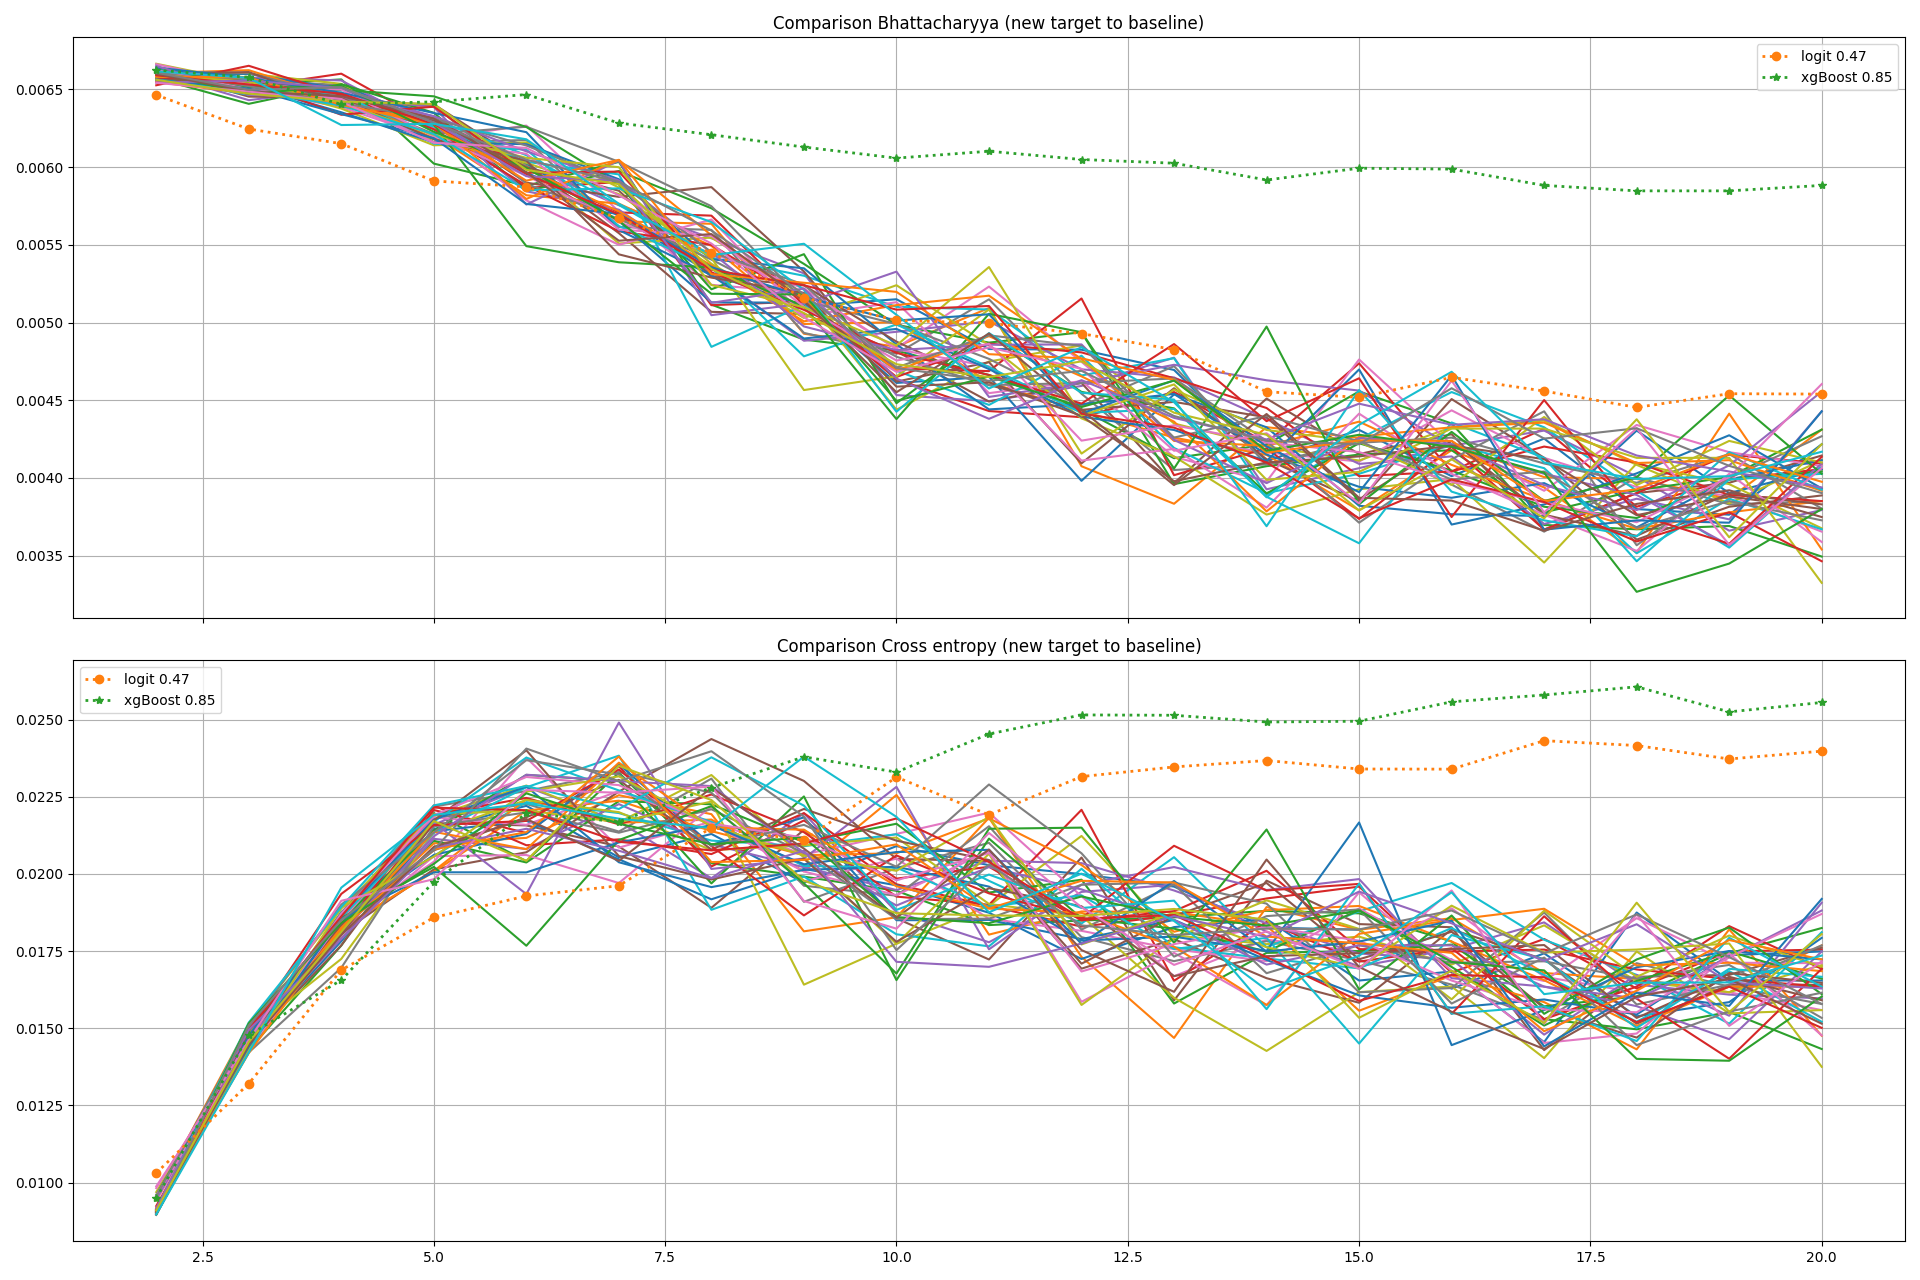
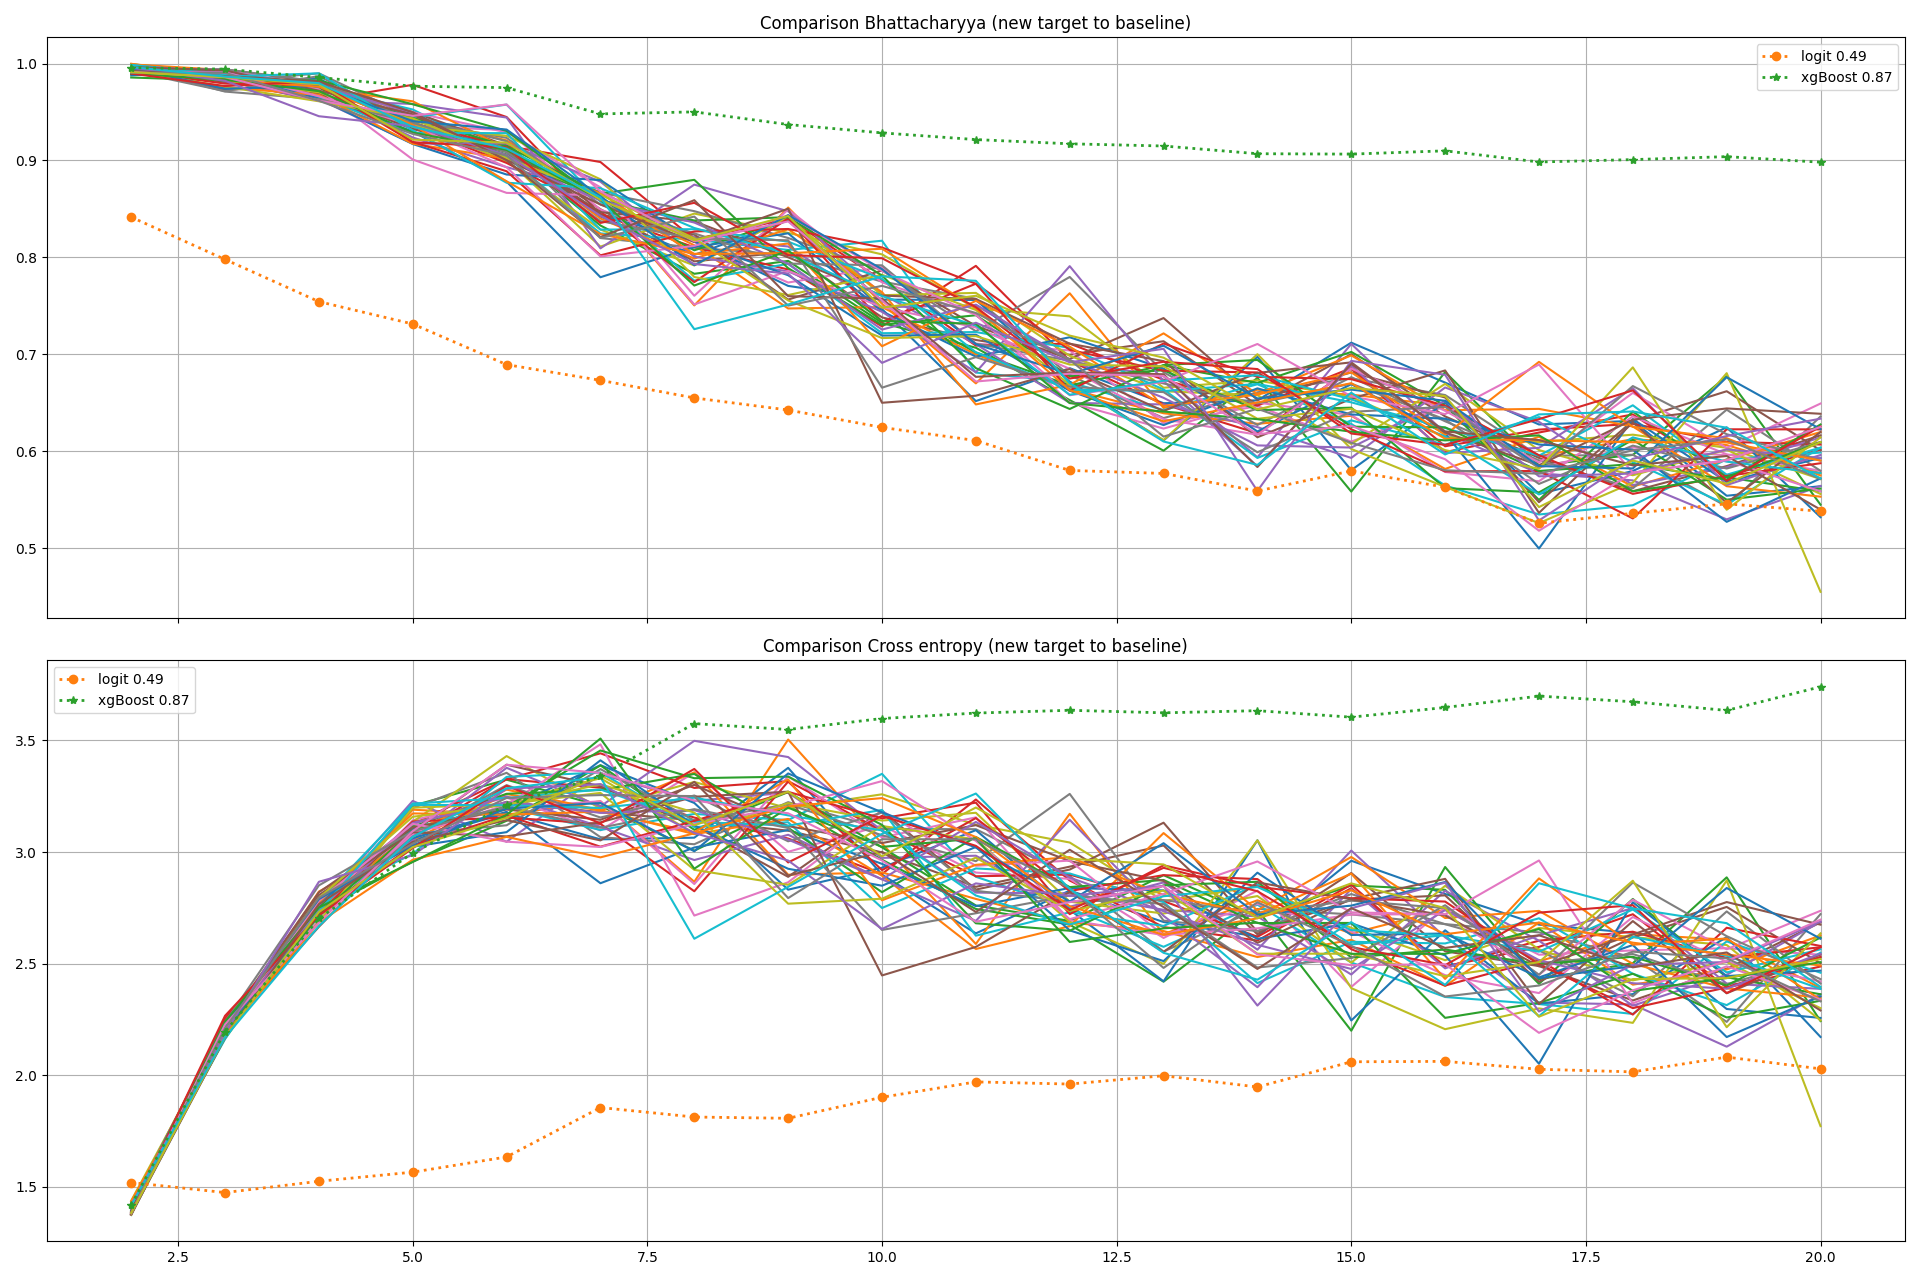
added entropy calculation

diff --git a/main.py b/main.py
@@ -10,6 +10,8 @@ def showCircles(elements, nClasses):
     bucket = math.floor(elements / nClasses)
     currentClass = 0;
 
+    transformedDataSet = np.zeros((elements, 2))
+
     for i in np.arange(elements):
         if math.floor(i / bucket) > currentClass:
             currentClass += 1
@@ -19,9 +21,14 @@ def showCircles(elements, nClasses):
         value = np.random.uniform(0, 1)
         dataSet[i, 0] = radious * math.cos(value * 2*math.pi)
         dataSet[i, 1] = radious * math.sin(value * 2*math.pi)
+
+        transformedDataSet[i, 0] = radious
+        transformedDataSet[i, 1] = value * 2 * math.pi
+
         target[i] = currentClass%2
 
     calculateAndVisualizeSeveralEntropies(dataSet, target, 'circles')
+    calculateAndVisualizeSeveralEntropies(transformedDataSet, target, 'circles_radian')
 
     #df = pd.DataFrame(dataSet, columns=['X1', 'X2', 'X3', 'Y'])
     #parallel_coordinates(df, class_column='Y', colormap=plt.get_cmap("Set2"))
@@ -46,16 +53,6 @@ def showRandom(elements, features):
 
     calculateAndVisualizeSeveralEntropies(dataSet, target, 'random')
 
-    #df = pd.DataFrame(dataSet, columns=['X1', 'X2', 'X3', 'Y'])
-    #parallel_coordinates(df, class_column='Y', colormap=plt.get_cmap("Set2"))
-
-    # Hide the color scale that is useless in this case
-    #fig.update_layout(coloraxis_showscale=False)
-
-    #plt.show()
-
-    #calcAndVisualize(dataSet, cl, 10)
-#showRandom()
 
 def showTaskFromUciById(id):
     # fetch dataset
@@ -69,10 +66,10 @@ def showTaskFromUciById(id):
 showRandom(150, 2)
 showCircles(150, 2)
 showCircles(1500, 2)
-showCircles(154, 4)
-showCircles(1504, 4)
+#showCircles(154, 4)
+#showCircles(1504, 4)
 showTaskFromUciById(53) #iris
 showTaskFromUciById(186) #wine quality
-showTaskFromUciById(17) #breast cancer wisconsin
-showTaskFromUciById(602) #dry bean
-showTaskFromUciById(54) #isolet
+#showTaskFromUciById(17) #breast cancer wisconsin
+#showTaskFromUciById(602) #dry bean
+#showTaskFromUciById(54) #isolet

diff --git a/calcEntropy.py b/calcEntropy.py
@@ -98,6 +98,9 @@ def calculateAndVisualizeSeveralEntropies(dataSet, target, taskName):
         logitComparisonResults[iBins, 0] = calcComparison(dataSet, objectBins, cl, regressionClassesIndex, 'bc')
         logitComparisonResults[iBins, 1] = calcComparison(dataSet, objectBins, cl, regressionClassesIndex, 'ce')
 
+        #logitComparisonResults[iBins, 0] = calcComparison(dataSet, objectBins, cl, cl, 'bc')
+        #logitComparisonResults[iBins, 1] = calcComparison(dataSet, objectBins, cl, cl, 'ce')
+
         xgBoostComparisonResults[iBins, 0] = calcComparison(dataSet, objectBins, cl, xbBoostClassesIndex, 'bc')
         xgBoostComparisonResults[iBins, 1] = calcComparison(dataSet, objectBins, cl, xbBoostClassesIndex, 'ce')
 

diff --git a/comparisonCalculation.py b/comparisonCalculation.py
@@ -65,7 +65,7 @@ def calcComparison(dataSet, objectBins, trueClassIndex, regressionClassesIndex, 
             comparingClassIndex = regressionClassesIndex['classesIndexes'][comparingClasses[currentClass]]
 
             cc = calcComparisonConcrete(dataSet, objectBins, currentTrueClassIndex, comparingClassIndex, comparisonType)
-            resultComparison += trueClasses[currentClass] / nObjects * cc
+            resultComparison += len(currentTrueClassIndex) / nObjects * cc
         else:
             pass
 
